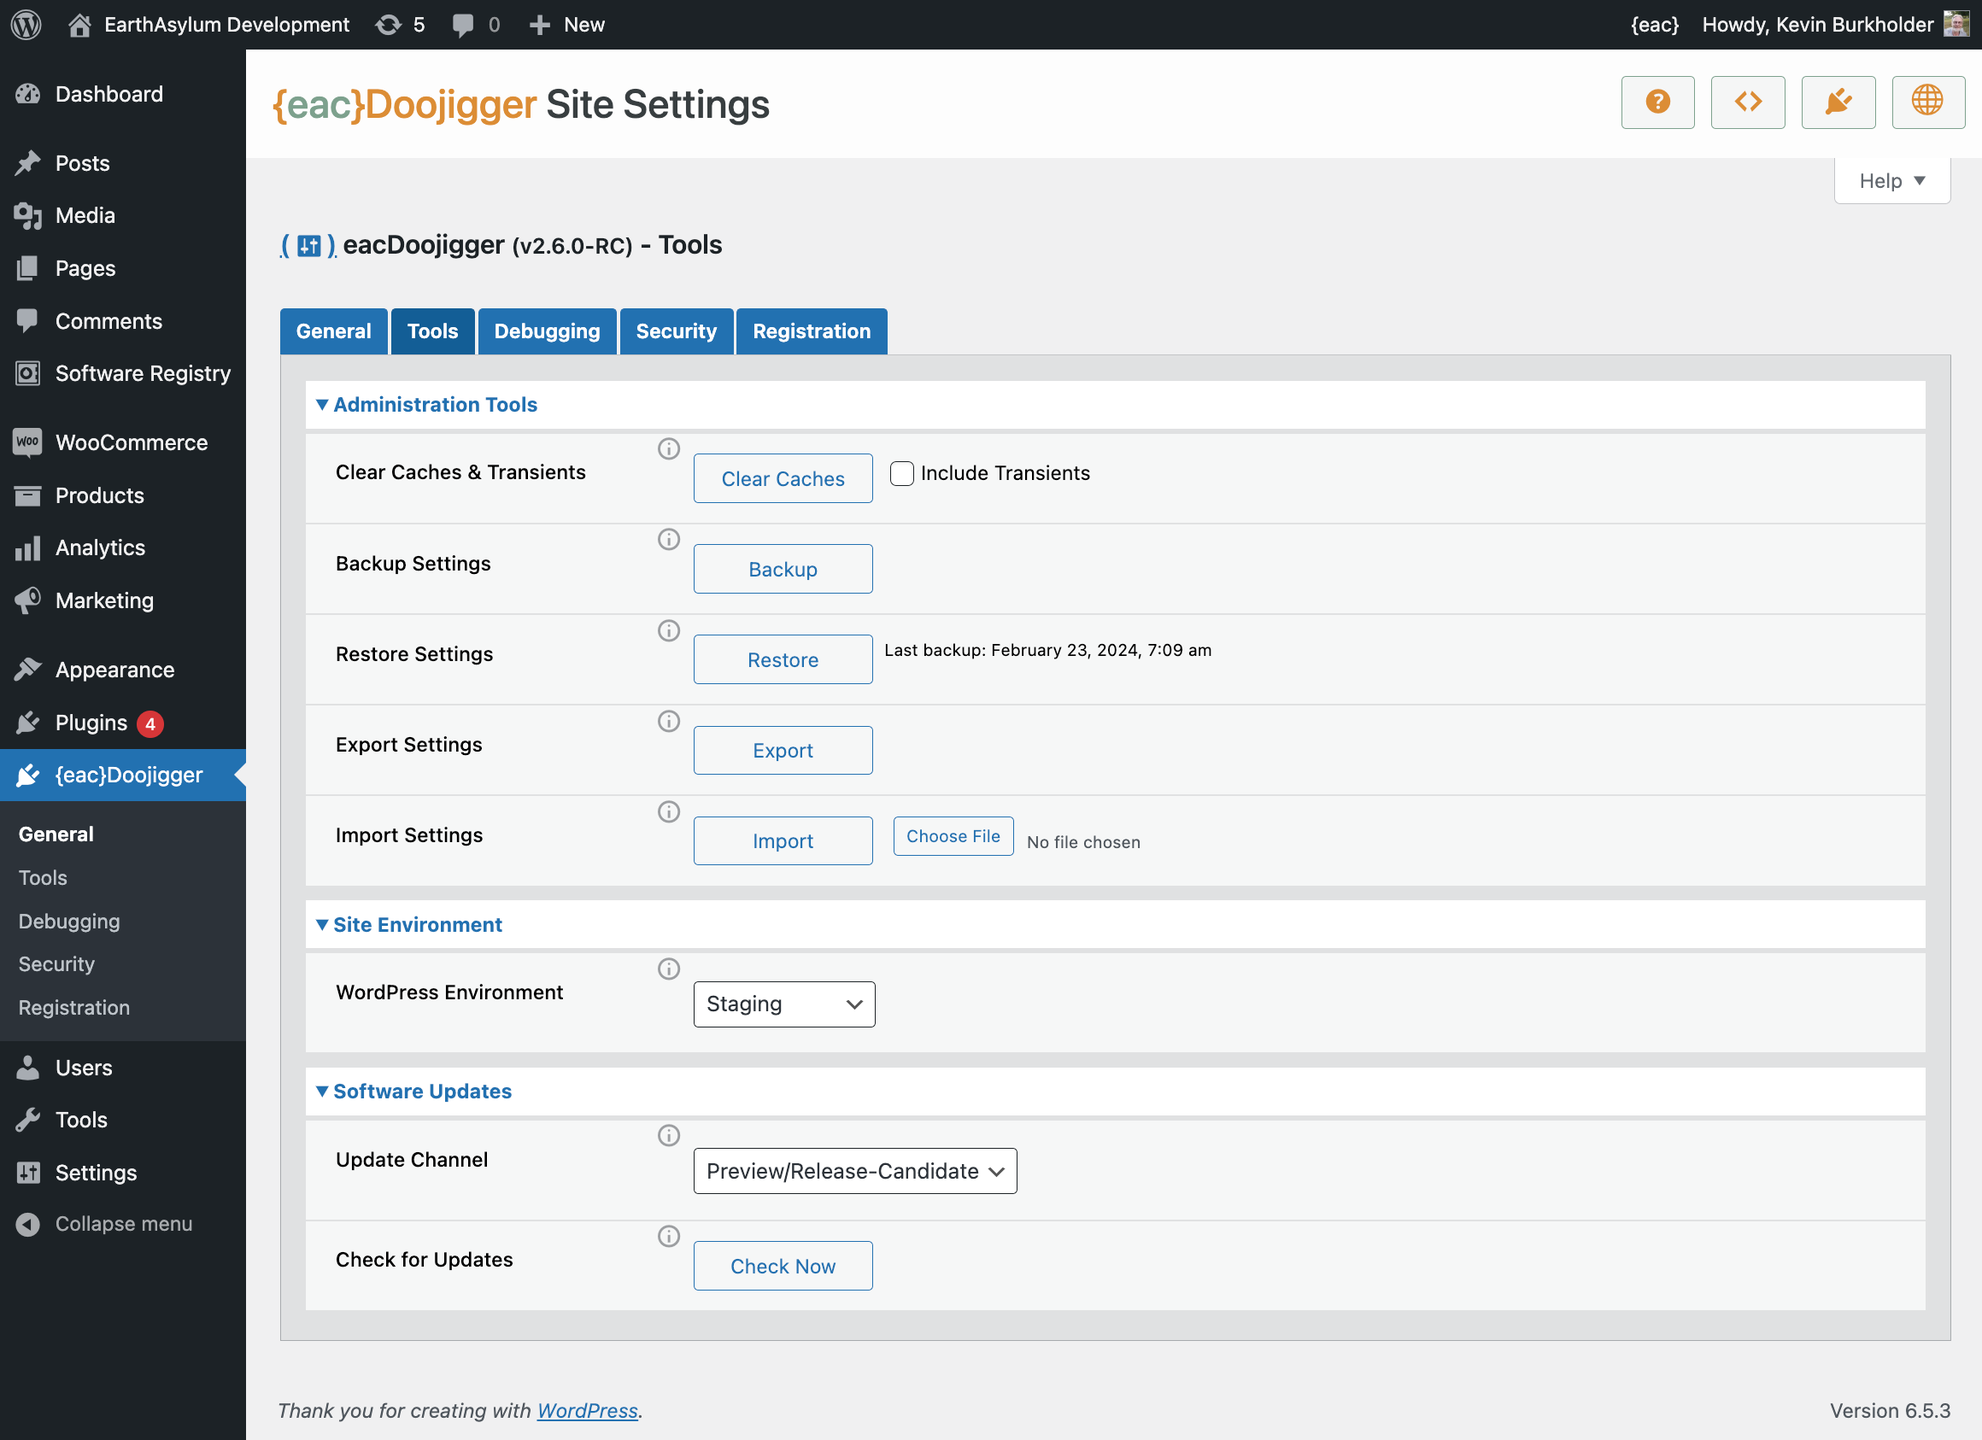
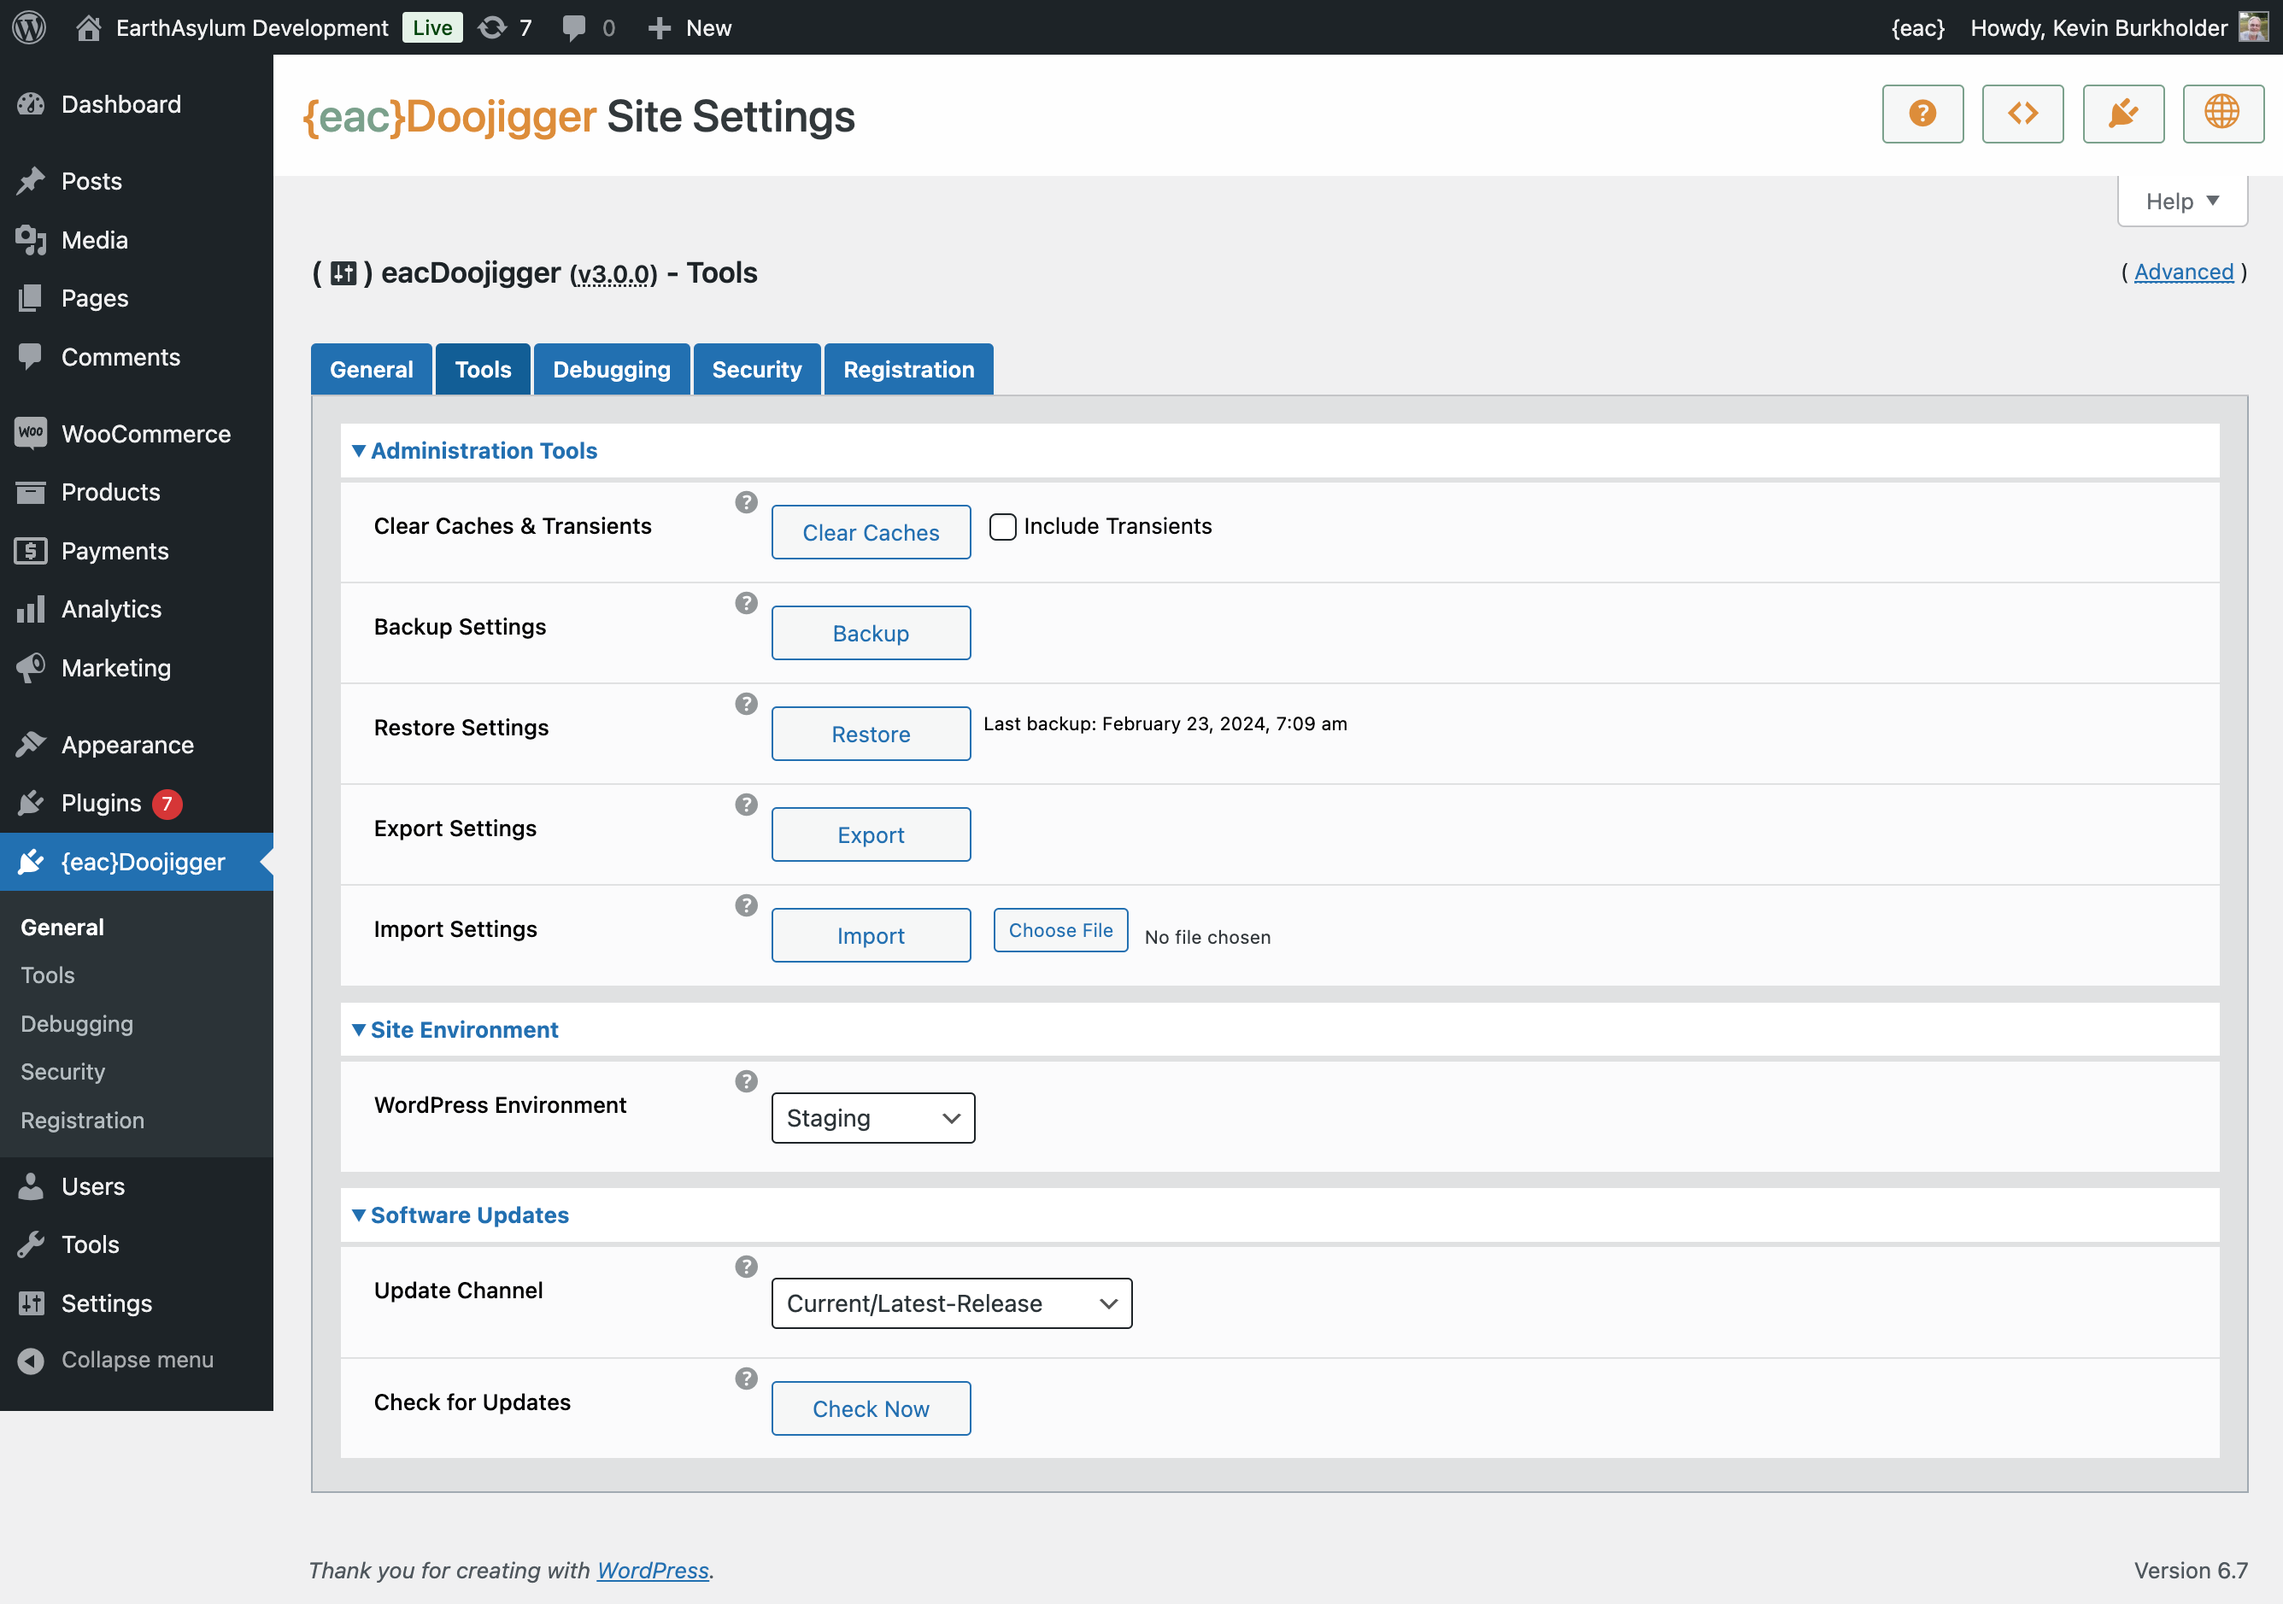
Version 3.0
= Version 3.0 – November 15, 2024 =

+   Tested with WordPress 6.7.
+   Dropped support for PHP < 8.1.
+   New browser optimization options (CSS Early Hints, Asynchronous CSS, JS Early Hints, Asynchronous JS).
+   New Risk Assessment security module using 3rd-party API extensions as well as internal actions and filters to assess and track security risks by IP address.
    +   Implemented server-side CORS security.
        +   Apply CORS rules to rest, xml, and admin-ajax.php requests.
        +   Options to use referer or reverse DNS to get origin.
        +   Validate local server host IP when passed as origin.
        +   Origin white-list and excluded URIs.
    +   New `register_[fraud|threat|abuse|risk]` hooks used to tag risky actions and, possibly, block access.
        +   Added `register_threat` action to several security checks.
    +   New AbuseIPDB api extension to block by IP address based on abuse score.
        +   See : https://www.abuseipdb.com/user/165095
    +   New FraudGuard api extension to block by IP address based on risk level.
        +   See : https://www.fraudguard.io
    +   New IpGeoLocation api extension to block by IP address based on threat score.
        +   See : https://www.ipgeolocation.io
+   New 'Content Security Assistant' (Add Script nonce, Add Style nonce, Do CSP Action).
    +   Add `nonce=xxx`  to `script` and style `link` tags.
    +   New `eacDoojigger_security_nonce` filter gets security nonce.
[…]

diff --git a/EarthAsylumConsulting/Plugin/eacDoojigger.plugin.php b/EarthAsylumConsulting/Plugin/eacDoojigger.plugin.php
@@ -50,9 +50,6 @@ class eacDoojigger extends \EarthAsylumConsulting\abstract_context
 	 */
 	private $style_async_exclude 	= [
 			'woocommerce',
-			'colors',
-			'debug-bar',
-			'query-monitor',
 	];
 
 	/**
@@ -61,8 +58,6 @@ class eacDoojigger extends \EarthAsylumConsulting\abstract_context
 	private $script_preload_exclude = [
 			'wpemoji',
 			'concatemoji',
-			'debug-bar',
-			'query-monitor',
 	];
 
 	/**
@@ -72,10 +67,7 @@ class eacDoojigger extends \EarthAsylumConsulting\abstract_context
 			'wp-i18n',
 			'wpemoji',
 			'concatemoji',
-			'jquery-core',
-			'jquery-migrate',
-			'debug-bar',
-			'query-monitor',
+			'jquery',
 	];
 
 	/**
@@ -131,40 +123,43 @@ class eacDoojigger extends \EarthAsylumConsulting\abstract_context
 			\add_action( 'admin_bar_menu', 				array( $this, 'set_admin_bar_menu') );
 		}
 
-		if ($this->is_option('optimize_options','style')) {
-			/**
-			 * filter {pluginname}_exclude_style_preload css handles to exclude from preloading
-			 * @param array handle name(s)
-			 */
-			$this->style_preload_exclude = $this->apply_filters('exclude_style_preload',$this->style_preload_exclude);
-			add_filter('style_loader_src',	array($this, 'optimize_hints'),100,2);
-		}
-		if ($this->is_option('optimize_options','style-async')) {
-			/**
-			 * filter {pluginname}_exclude_style_async css handles to exclude from async-ing
-			 * @param array handle name(s)
-			 */
-			$this->style_async_exclude = $this->apply_filters('exclude_style_async',$this->style_async_exclude);
-			add_filter('style_loader_tag', array($this, 'optimize_async_style'),100,4);
-		}
+		if (! is_admin() )
+		{
+			if ($this->is_option('optimize_options','style')) {
+				/**
+				 * filter {pluginname}_exclude_style_preload css handles to exclude from preloading
+				 * @param array handle name(s)
+				 */
+				$this->style_preload_exclude = $this->apply_filters('exclude_style_preload',$this->style_preload_exclude);
+				add_filter('style_loader_src',	array($this, 'optimize_hints'),100,2);
+			}
+			if ($this->is_option('optimize_options','style-async')) {
+				/**
+				 * filter {pluginname}_exclude_style_async css handles to exclude from async-ing
+				 * @param array handle name(s)
+				 */
+				$this->style_async_exclude = $this->apply_filters('exclude_style_async',$this->style_async_exclude);
+				add_filter('style_loader_tag', array($this, 'optimize_async_style'),100,4);
+			}
 
-		if ($this->is_option('optimize_options','script')) {
-			/**
-			 * filter {pluginname}_exclude_script_preload js handles to exclude from preloading
-			 * @param array handle name(s)
-			 */
-			$this->script_preload_exclude = $this->apply_filters('exclude_script_preload',$this->script_preload_exclude);
-			add_filter('script_loader_src', array($this, 'optimize_hints'),100,2);
+			if ($this->is_option('optimize_options','script')) {
+				/**
+				 * filter {pluginname}_exclude_script_preload js handles to exclude from preloading
+				 * @param array handle name(s)
+				 */
+				$this->script_preload_exclude = $this->apply_filters('exclude_script_preload',$this->script_preload_exclude);
+				add_filter('script_loader_src', array($this, 'optimize_hints'),100,2);
+			}
+			if ($this->is_option('optimize_options','script-async')) {
+				/**
+				 * filter {pluginname}_exclude_script_async js handles to exclude from async-ing
+				 * @param array handle name(s)
+				 */
+				$this->script_async_exclude = $this->apply_filters('exclude_script_async',$this->script_async_exclude);
+				add_filter('script_loader_tag', array($this, 'optimize_async_script'),100,3);
+			}
+			//add_action('wp_head', 			array($this, 'optimize_preload'));
 		}
-		if ($this->is_option('optimize_options','script-async')) {
-			/**
-			 * filter {pluginname}_exclude_script_async js handles to exclude from async-ing
-			 * @param array handle name(s)
-			 */
-			$this->script_async_exclude = $this->apply_filters('exclude_script_async',$this->script_async_exclude);
-			add_filter('script_loader_tag', array($this, 'optimize_async_script'),100,3);
-		}
-		//add_action('wp_head', 			array($this, 'optimize_preload'));
 	}
 
 

diff --git a/EarthAsylumConsulting/Extensions/class.debugging.extension.php b/EarthAsylumConsulting/Extensions/class.debugging.extension.php
@@ -21,7 +21,7 @@ if (! class_exists(__NAMESPACE__.'\debugging_extension', false) )
 		/**
 		 * @var string extension version
 		 */
-		const VERSION	= '24.1108.1';
+		const VERSION	= '24.1115.1';
 
 		/**
 		 * @var array disable for these file extensions
@@ -66,7 +66,7 @@ if (! class_exists(__NAMESPACE__.'\debugging_extension', false) )
 		 */
 		public function __construct($plugin)
 		{
-			parent::__construct($plugin, (self::ALLOW_ALL | self::ALLOW_NON_PHP | self::DEFAULT_DISABLED) & ~self::ALLOW_CRON);
+			parent::__construct($plugin, (self::ALLOW_ALL | self::ALLOW_NON_PHP | self::DEFAULT_DISABLED)/* & ~self::ALLOW_CRON*/);
 
 			$ext = explode('?',$_SERVER['REQUEST_URI']);
 			$ext = pathinfo(trim($ext[0],'/'),PATHINFO_EXTENSION);
@@ -198,7 +198,9 @@ if (! class_exists(__NAMESPACE__.'\debugging_extension', false) )
 			// subscribe to Logger action - file output
 			if ( ($this->is_option('debug_to_file','plugin') && $this->setLoggingPathname(true)) || $this->is_option('debug_to_file','server') )
 			{
-				$this->plugin->Log()->subscribe([$this,'file_log_data']);
+				if (!wp_doing_cron()) {
+					$this->plugin->Log()->subscribe([$this,'file_log_data']);
+				}
 			}
 
 			// subscribe to Logger action - page output
@@ -657,7 +659,6 @@ if (! class_exists(__NAMESPACE__.'\debugging_extension', false) )
 			if (!$asArray) {
 				$errLevels = implode(', ',$errLevels);
 			}
-			//$this->plugin->logDebug($errLevels,'error reporting');
 			return $errLevels;
 		}
 
@@ -1102,7 +1103,7 @@ if (! class_exists(__NAMESPACE__.'\debugging_extension', false) )
 			{
 				$headers['Response Headers'] = array_merge(
 					[$_SERVER['SERVER_PROTOCOL'].' Status: '.http_response_code().' '.get_status_header_desc(http_response_code())],
-					$headers['Response Headers']
+					array_filter($headers['Response Headers'],function($h) {return !str_starts_with($h,'Link:');})
 				);
 			}
 

diff --git a/EarthAsylumConsulting/abstract_backend.class.php b/EarthAsylumConsulting/abstract_backend.class.php
@@ -10,7 +10,7 @@ use EarthAsylumConsulting\Helpers\wp_config_editor;
  * @package		{eac}Doojigger
  * @author		Kevin Burkholder <KBurkholder@EarthAsylum.com>
  * @copyright	Copyright (c) 2024 EarthAsylum Consulting <www.earthasylum.com>
- * @version		24.1110.1
+ * @version		24.1114.1
  * @link		https://eacDoojigger.earthasylum.com/
  * @see 		https://eacDoojigger.earthasylum.com/phpdoc/
  * @used-by		\EarthAsylumConsulting\abstract_context
@@ -1852,6 +1852,7 @@ abstract class abstract_backend extends abstract_core
 				__( $currentTab, $this->PLUGIN_TEXTDOMAIN ).
 				"</h2>\n";
 		// add clickable link to enable/disable advanced mode
+	/*
 		if ($this->allowAdvancedMode())
 		{
 			$switchTo 	= ($this->isAdvancedMode()) ? 'Disable' : 'Enable';
@@ -1862,6 +1863,19 @@ abstract class abstract_backend extends abstract_core
 					"title='{$switchTo} advanced mode'>".
 					"</span></a>",
 					$h2a
+			);
+		}
+	*/
+		if ($this->allowAdvancedMode())
+		{
+			$switchTo 	= ($this->isAdvancedMode()) ? 'Disable' : 'Enable';
+			$switchFr 	= ($this->isAdvancedMode()) ? 'Advanced' : 'Essentials';
+			$href 		= $this->add_admin_action_link( strtolower($switchTo).'_advanced_mode' );
+			$h2a = preg_replace("|</h2>|",
+					"<span style='float:right;font-size:.75em;font-weight:normal'>".
+					"( <a href='{$href}'><abbr title='{$switchTo} advanced mode'>{$switchFr}</abbr></a> )".
+					"</span></h2>",
+					$h2
 			);
 		}
 		/**

diff --git a/EarthAsylumConsulting/Plugin/eacDoojigger.admin.php b/EarthAsylumConsulting/Plugin/eacDoojigger.admin.php
@@ -10,7 +10,7 @@ namespace EarthAsylumConsulting\Plugin;
  * @package		{eac}Doojigger\Traits
  * @author		Kevin Burkholder <KBurkholder@EarthAsylum.com>
  * @copyright	Copyright (c) 2024 EarthAsylum Consulting <www.earthasylum.com>
- * @version		24.1109.1
+ * @version		24.1114.1
  */
 
 trait eacDoojigger_admin_traits
@@ -117,24 +117,6 @@ trait eacDoojigger_admin_traits
 
 						"</div></div>";
 			}
-		);
-
-		$this->add_filter("options_form_h2_html", function($h2a,$h2)
-			{
-				if ($this->allowAdvancedMode())
-				{
-					$switchTo 	= ($this->isAdvancedMode()) ? 'Disable' : 'Enable';
-					$switchFr 	= ($this->isAdvancedMode()) ? 'Advanced' : 'Essentials';
-					$href 		= $this->add_admin_action_link( strtolower($switchTo).'_advanced_mode' );
-					return preg_replace("|</h2>|",
-							"<span style='float:right;font-size:.75em;font-weight:normal'>".
-							"( <a href='{$href}'><abbr title='{$switchTo} advanced mode'>{$switchFr}</abbr></a> )".
-							"</span></h2>",
-							$h2
-					);
-				}
-				return $h2a;
-			},10,2
 		);
 
 		// from standard_options

diff --git a/EarthAsylumConsulting/Extensions/security/class.security_csp_assist.extension.php b/EarthAsylumConsulting/Extensions/security/class.security_csp_assist.extension.php
@@ -17,7 +17,7 @@ if (! class_exists(__NAMESPACE__.'\security_csp_assistant', false) )
 		/**
 		 * @var string extension version
 		 */
-		const VERSION 			= '24.1113.1';
+		const VERSION 			= '24.1115.1';
 
 		/**
 		 * @var string extension version
@@ -98,7 +98,12 @@ if (! class_exists(__NAMESPACE__.'\security_csp_assistant', false) )
 
 			if ($this->security->isPolicyEnabled('sec_CSP_nonce'))
 			{
+				// load scripts individually so we can access the tags
+				if (!defined('CONCATENATE_SCRIPTS')) define('CONCATENATE_SCRIPTS',false);
+
+				// create the nonce we'll use
 				$this->csp_nonce = $this->apply_filters('set_security_nonce',wp_create_nonce());
+
 				/**
 				 * filter {pluginname}_security_nonce - get CSP security nonce for this request
 				 */

diff --git a/readme.md b/readme.md
@@ -7,8 +7,8 @@
 
 Plugin URI:             https://eacDoojigger.earthasylum.com/  
 Author:                 [EarthAsylum Consulting](https://www.earthasylum.com)  
-Stable tag:             3.0.0-RC1+24.1113.1  
-Last Updated:           13-Nov-2024  
+Stable tag:             3.0.0-RC1+24.1115.1  
+Last Updated:           15-Nov-2024  
 Requires at least:      5.8  
 Tested up to:           6.7  
 Requires PHP:           8.1  

diff --git a/changelog.md b/changelog.md
@@ -1,6 +1,6 @@
 == Changelog ==
 
-= Version 3.0 – November 13, 2024 =
+= Version 3.0 – November 15, 2024 =
 
 +   Tested with WordPress 6.7.
 +   Dropped support for PHP < 8.1.
